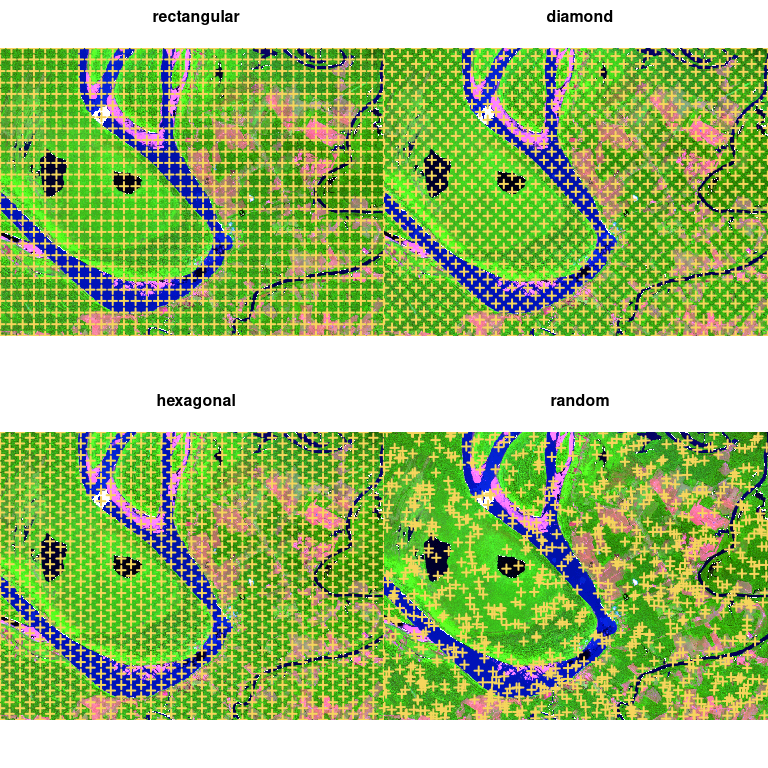
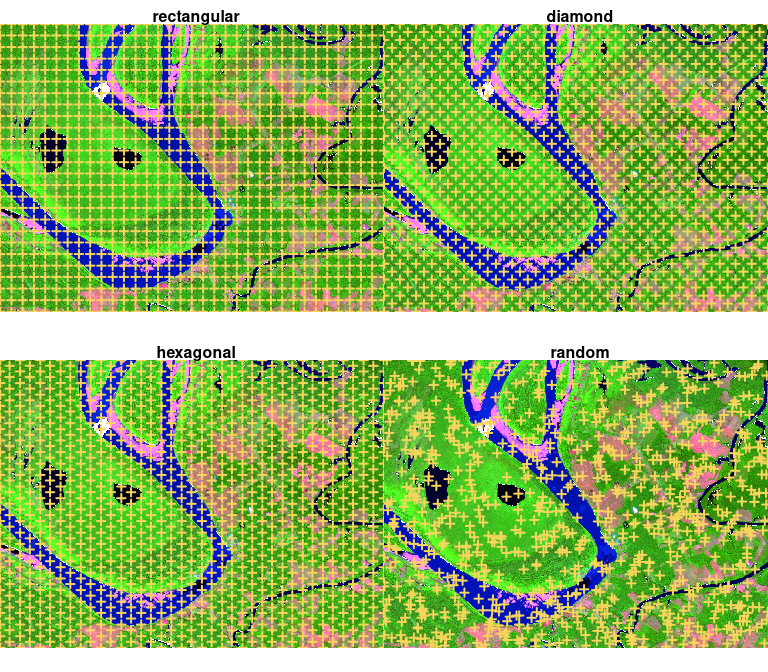
Add codecov badge

diff --git a/README.md b/README.md
@@ -4,6 +4,7 @@
 <!-- badges: start -->
 
 [![Check](https://github.com/rolfsimoes/snic/actions/workflows/R-CMD-check.yaml/badge.svg)](https://github.com/rolfsimoes/snic/actions/workflows/R-CMD-check.yaml)
+[![Codecov](https://codecov.io/gh/rolfsimoes/snic/branch/main/graph/badge.svg)](https://app.codecov.io/gh/rolfsimoes/snic?branch=main)
 <!-- badges: end -->
 
 Efficient superpixel segmentation for multi-band imagery using the
@@ -82,7 +83,7 @@ Sentinel-2 subset.
 ``` r
 library(snic)
 library(terra)
-#> terra 1.8.70
+#> terra 1.8.80
 
 # Sentinel-2 subset packaged with snic
 data_dir <- system.file("demo-geotiff", package = "snic", mustWork = TRUE)
